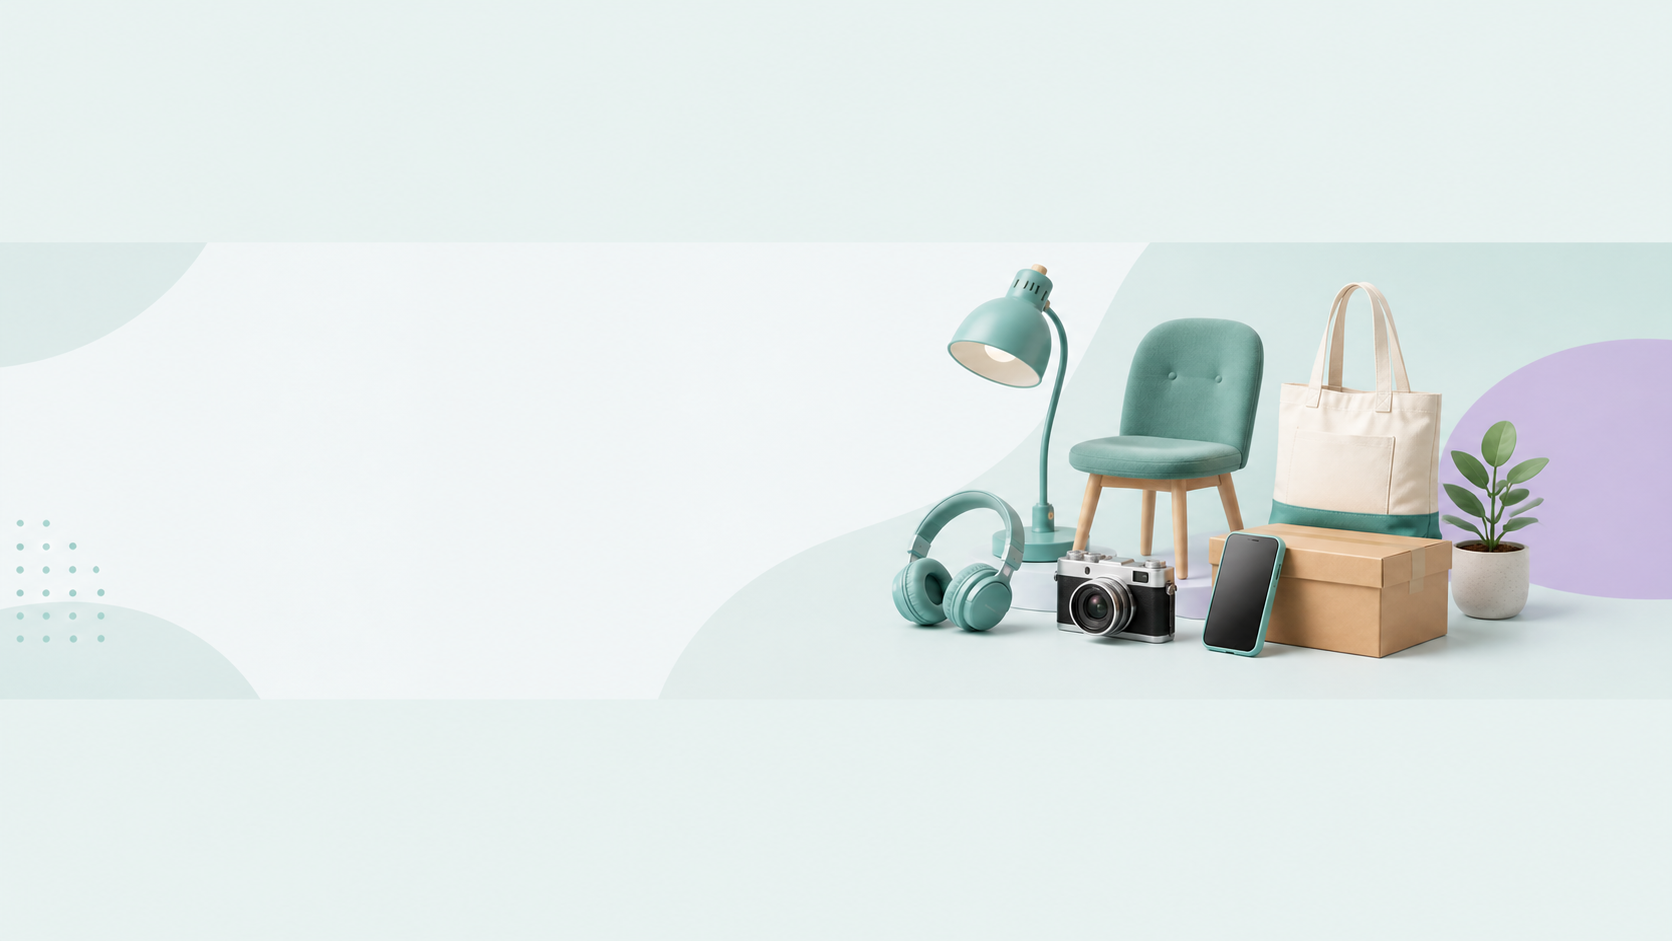
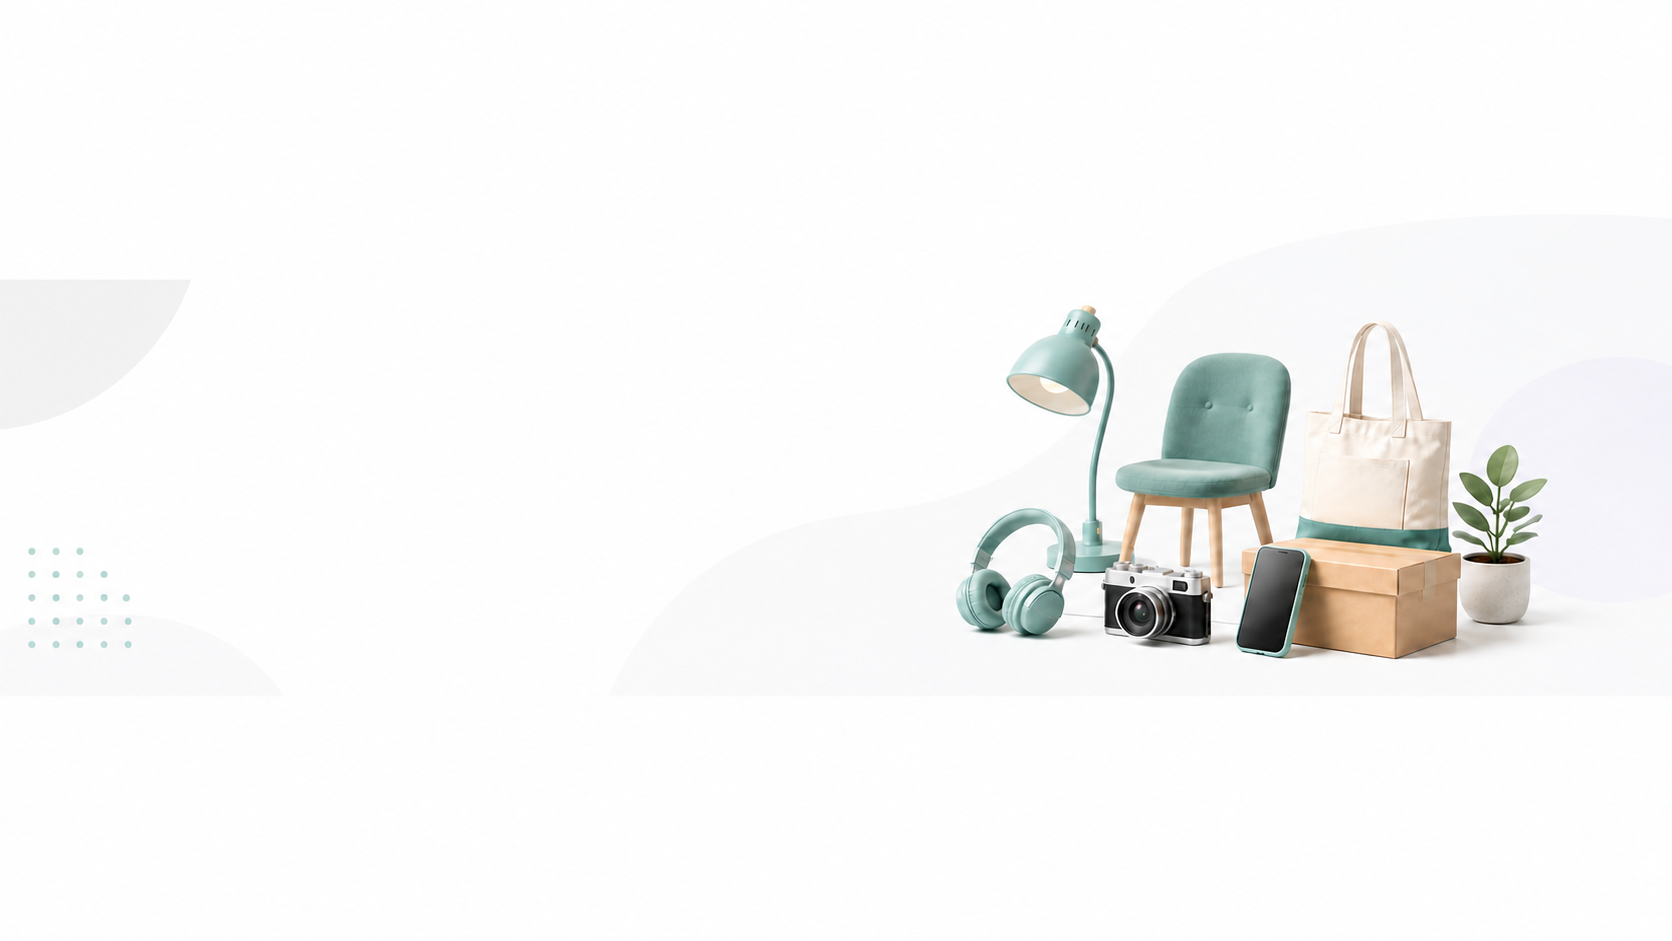
메인 배너 이미지 개선

Changed region(s): [[0.4043, 0.2465, 1.0, 0.7705], [0.0, 0.5547, 0.1555, 0.7705], [0.0, 0.2465, 0.1244, 0.3082]]

diff --git a/main_top.php b/main_top.php
@@ -56,6 +56,36 @@
       width: 320px;
       height: 400px;
     }
+
+    .public-pagination {
+      display: flex;
+      justify-content: center;
+      margin: 20px 0 40px;
+    }
+
+    .public-pagination .pagination {
+      gap: 6px;
+      margin-bottom: 0;
+    }
+
+    .public-pagination .page-link {
+      min-width: 38px;
+      height: 38px;
+      display: flex;
+      justify-content: center;
+      align-items: center;
+      color: #18766d;
+      background: white;
+      border: 1px solid #cfe1df;
+      border-radius: 10px !important;
+    }
+
+    .public-pagination .page-link:hover,
+    .public-pagination .page-item.active .page-link {
+      color: white;
+      background: #18766d;
+      border-color: #18766d;
+    }
   </style>
   <link rel="icon" type="image/png" href="images/favicon.png">
 </head>
@@ -165,13 +195,13 @@
     </div>
     <div class="carousel-inner">
       <div class="carousel-item active">
-        <img src="images/banner-wide.png" class="d-block w-100 object-fit-cover" style="height: 450px;" object-position: center; alt="...">
+        <img src="images/banner-wide.png?v=2" class="d-block w-100 object-fit-cover" style="height: 450px;" object-position: center; alt="중고거래 배너">
       </div>
       <div class="carousel-item">
-        <img src="images/banner2-wide.png" class="d-block w-100 object-fit-cover" style="height: 450px;" object-position: center; alt="...">
+        <img src="images/banner2-wide.png?v=2" class="d-block w-100 object-fit-cover" style="height: 450px;" object-position: center; alt="중고상품 등록 배너">
       </div>
       <div class="carousel-item">
-        <img src="images/banner3-wide.png" class="d-block w-100 object-fit-cover" style="height: 450px;" object-position: center; alt="...">
+        <img src="images/banner3-wide.png?v=2" class="d-block w-100 object-fit-cover" style="height: 450px;" object-position: center; alt="중고거래 채팅 배너">
       </div>
     </div>
     <button class="carousel-control-prev" type="button" data-bs-target="#carouselExampleIndicators" data-bs-slide="prev">
